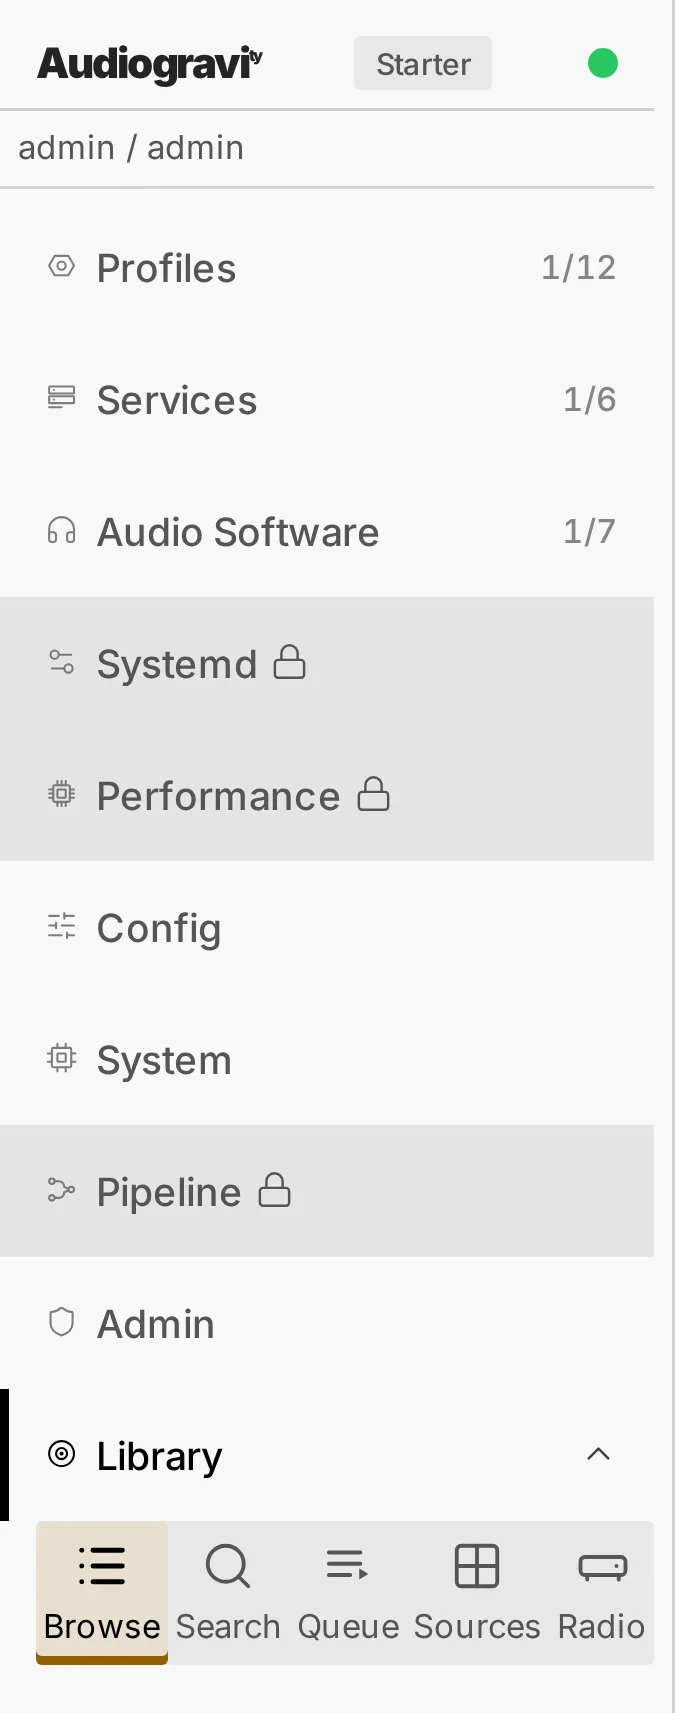
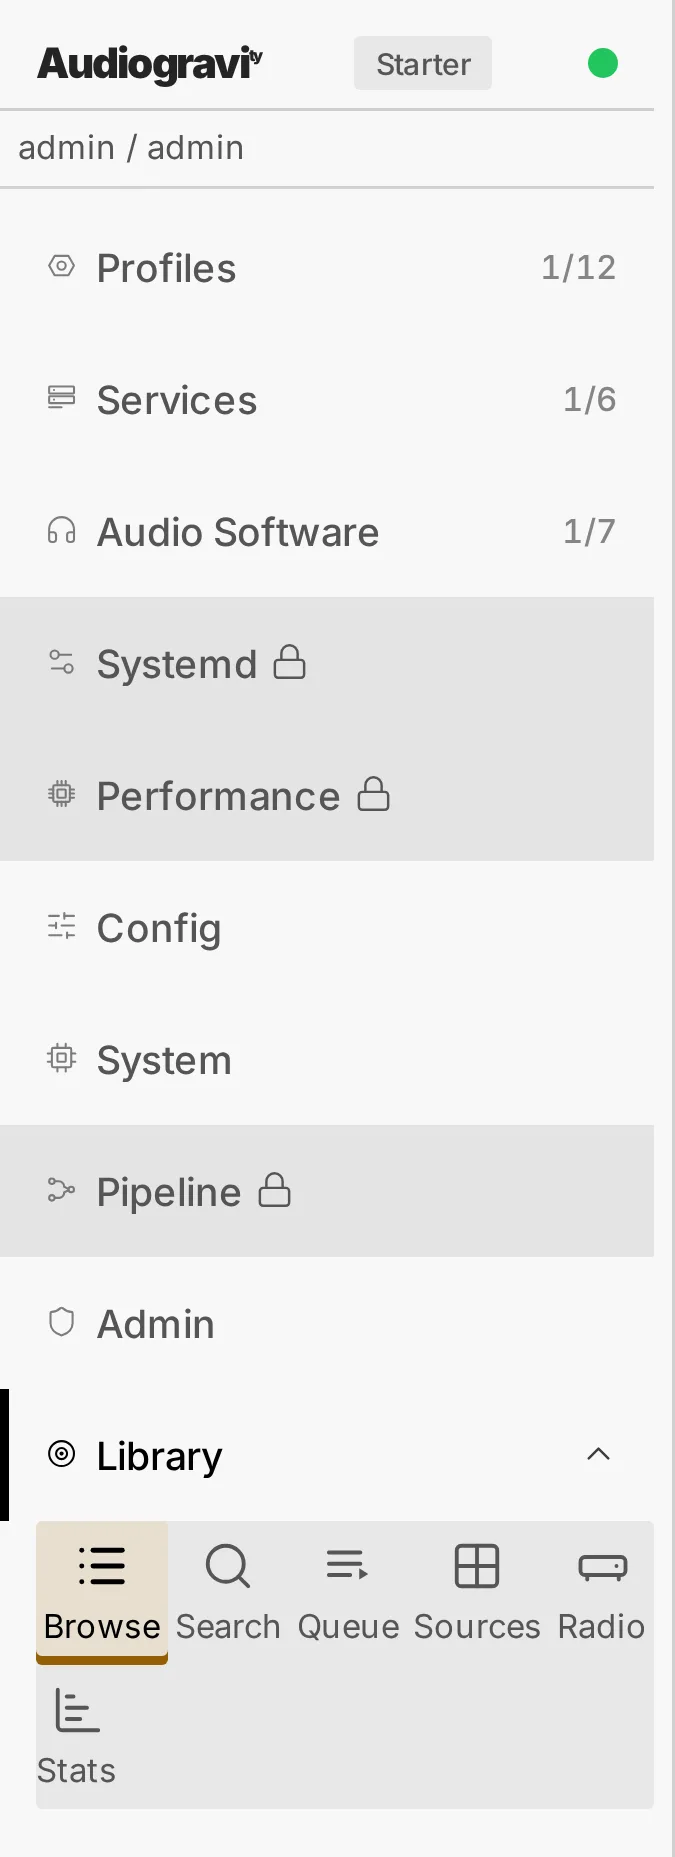
docs: describe when the box plays in Stats, with its figures
Library & streaming describes "When you listen" and shows the Stats view, taken with
an example history. First run's two figures of the tab menu and its list of Library's
views include Stats. The changelog and the release notes follow, and the measured
opening times of the history are brought up to date.

diff --git a/docs/manual/05-library-streaming.html b/docs/manual/05-library-streaming.html
@@ -74,8 +74,8 @@ browse. The <strong>Outputs</strong> button at the top of this view opens the li
 where you pick where the audio goes (see <a href="06-outputs-engines">6. Outputs &amp; engines</a>).</li>
 <li><strong>Radio</strong> — internet radio, with tabs of its own (see <a href="#internet-radio">Internet radio</a>
 below).</li>
-<li><strong>Stats</strong> — what the box has played: time listened, sources, sound quality, most
-played (see <a href="#listening-history">Listening history</a> below).</li>
+<li><strong>Stats</strong> — what the box has played: time listened and when, sources, sound quality,
+most played (see <a href="#listening-history">Listening history</a> below).</li>
 </ul>
 <img loading="lazy" src="images/ios-sources.webp" alt="The Sources view: the active source at the top, then the other sources, the AirPlay and UPnP inputs, and the discovered UPnP servers" width="360">
 <h2 id="your-local-library">Your local library</h2>
@@ -360,25 +360,31 @@ to start.</p>
 (<code>sudo systemctl restart ag-core-server</code>). Search and playback are unchanged by this;
 only the report stops.</p>
 <h2 id="listening-history">Listening history</h2>
-<p>The <strong>Stats</strong> tab shows what the box has played: how long you listened and on which
-days, through which sources and outputs, in what sound quality and which genres, your
-most played artists, albums and tracks, and your latest listens. The figures come with
-<strong>Pro</strong>; on Starter, the tab shows them behind a padlock.</p>
+<p>The <strong>Stats</strong> tab shows what the box has played: how long you listened, on which days
+and at what times of the week, through which sources and outputs, in what sound quality
+and which genres, your most played artists, albums and tracks, and your latest listens.
+The figures come with <strong>Pro</strong>; on Starter, the tab shows them behind a padlock.</p>
 <ol>
 <li>Open <strong>Library</strong>, then <strong>Stats</strong>.</li>
 <li>Pick a period at the top: <strong>7 days</strong>, <strong>30 days</strong>, <strong>12 months</strong> or <strong>All</strong>. Every
 figure below follows it.</li>
 <li><strong>Listening time</strong> has one bar per day — per month for 12 months and All. Tap a bar
 to read its time above the chart.</li>
+<li><strong>When you listen</strong> maps your week: a row per day, Monday to Sunday, and a square
+per hour. The darker a square, the more the box played at that hour, on average per
+week over the period. Tap a square to read its time above the grid.</li>
 <li><strong>By source</strong>, <strong>By output</strong>, <strong>Sound quality</strong> and <strong>Genres</strong> show where that time
 went. <strong>Unknown</strong> gathers what said nothing about itself: AirPlay and some streams
 carry no genre.</li>
 <li>Under <strong>Most played</strong>, switch between <strong>Artists</strong>, <strong>Albums</strong> and <strong>Tracks</strong>.
 <strong>Recently played</strong> lists your latest listens, whatever the period.</li>
 </ol>
+<img loading="lazy" src="images/ios-stats.webp" alt="The Stats view over 30 days: the time listened with its listens, albums and days with music, a bar per day, and the week's hours, Saturday 21:00 tapped" width="360">
 <p>What counts as a listen:</p>
 <ul>
 <li>a track counts once it has played for <strong>30 seconds</strong>; pauses are not counted;</li>
+<li>a listen counts in the hours it actually played: one started at 20:50 for half an
+hour fills 20:00 and 21:00 in <strong>When you listen</strong>, and a pause fills no square;</li>
 <li>a radio station counts as <strong>one listen</strong> for as long as you stayed on it, whatever
 songs it announced;</li>
 <li>a listen appears once it ends — when the next track starts, or shortly after you

diff --git a/docs/manual/03-first-run.html b/docs/manual/03-first-run.html
@@ -210,15 +210,16 @@ OS tuning, config files and monitoring (all covered in
 <a href="06-outputs-engines">6. Outputs &amp; engines</a>).</li>
 <li><strong>Admin</strong> — users and access, announcements, updates and the licence.</li>
 <li><strong>Library</strong> — browse, search, queue, sources and outputs: where you play
-music (the streaming services, the media servers and Roon come with Pro). In the sidebar, a tap on it unfolds a row of icons — <strong>Browse</strong>, <strong>Search</strong>,
-<strong>Queue</strong>, <strong>Sources</strong> or <strong>Radio</strong> — and a tap on one opens that view; a second tap
-on Library folds them. Coming from another tab, the view you were on opens as you
+music (the streaming services, the media servers and Roon come with Pro), and what the
+box has played. In the sidebar, a tap on it unfolds a row of icons — <strong>Browse</strong>,
+<strong>Search</strong>, <strong>Queue</strong>, <strong>Sources</strong>, <strong>Radio</strong> or <strong>Stats</strong> — and a tap on one opens that
+view; a second tap on Library folds them. Coming from another tab, the view you were on opens as you
 left it, an album or an artist still open. Across the top, a tap on Library opens the
 page, its views in a bar of their own.</li>
 <li><strong>Manual</strong> — this manual, readable inside the app; it stands apart from the tabs, at
 the far end of the bar or the foot of the sidebar.</li>
 </ul>
-<img loading="lazy" src="images/ios-tab-menu.webp" alt="The tab menu on a phone: the app's tabs, and Library unfolded into its views — Browse, Search, Queue, Sources and Radio — the one shown marked" width="216">
+<img loading="lazy" src="images/ios-tab-menu.webp" alt="The tab menu on a phone: the app's tabs, and Library unfolded into its views — Browse, Search, Queue, Sources, Radio and Stats — the one shown marked" width="216">
 <p>On a <strong>Starter</strong> licence, what Pro adds carries a padlock — the Pipeline, Systemd and
 Performance tabs, Library's Pro sources — and tapping one takes you to the licence panel, with
 the <em>License activation</em> window open. <strong>Config stays open</strong>: editing a service's configuration

diff --git a/CHANGELOG.md b/CHANGELOG.md
@@ -10,10 +10,12 @@ and this landing) are documented here. Format based on
 ## [Unreleased]
 
 ### Added
-- **[core+ui] Library → Stats: what the box played.** A sixth tab in Library shows the time listened over the last 7 or 30 days, 12 months or the whole history — one bar per day or month, tap one to read it —, where it came from and went to, its sound quality (DSD, Hi-Res, CD quality, lossy), its genres, the most played artists, albums and tracks, and the latest listens. A listen counts from 30 seconds actually played, pauses left out; a station is one listen for as long as you stay on it, its genre taken from its tags. The box records on every edition, from what its player already announces — the player reads nothing more for it, with or without a screen open (measured: 8 reads in two minutes of playback, none following a screen); the figures come with Pro. Roon and HQPlayer are not counted. A listen whose source vanishes from the player for a moment, or that plays across a restart of the core, stays one listen. The history is one file on the box, readable by the core's account only, never sent anywhere; ten years of listens open in 40 ms, 12 months in 270 ms at most, on the ARM box (200,000 synthetic listens, measured on a 1.8 GHz board). New routes: `GET /listening/summary` (Pro), `GET`/`PUT /listening/settings` and `DELETE /listening/history` (every edition, refused to a guest account).
+- **[core+ui] Library → Stats: what the box played.** A sixth tab in Library shows the time listened over the last 7 or 30 days, 12 months or the whole history — one bar per day or month, tap one to read it —, where it came from and went to, its sound quality (DSD, Hi-Res, CD quality, lossy), its genres, the most played artists, albums and tracks, and the latest listens. A listen counts from 30 seconds actually played, pauses left out; a station is one listen for as long as you stay on it, its genre taken from its tags. The box records on every edition, from what its player already announces — the player reads nothing more for it, with or without a screen open (measured: 8 reads in two minutes of playback, none following a screen); the figures come with Pro. Roon and HQPlayer are not counted. A listen whose source vanishes from the player for a moment, or that plays across a restart of the core, stays one listen. The history is one file on the box, readable by the core's account only, never sent anywhere; ten years of listens open in 75 ms, 12 months in 280 ms at most, on the ARM box (200,000 synthetic listens, measured on a 1.8 GHz board, the week's hours included). New routes: `GET /listening/summary` (Pro), `GET`/`PUT /listening/settings` and `DELETE /listening/history` (every edition, refused to a guest account).
+- **[core+ui] Library → Stats shows when the box plays.** *When you listen* maps the week: a row per day, Monday to Sunday, a square per hour, the darker the more the box played at that hour, on average per week over the period chosen; tap a square to read its time. A listen counts in the hours it actually played — one started at 20:50 for half an hour fills 20:00 and 21:00, a pause fills none — on the box's clock, including the nights the clocks change and in the countries half an hour off UTC. A track replayed after a pause is dated by its own start. It costs nothing while the music plays; opening the view takes 14 ms more on the x86 box and 35 ms more on the ARM box, at most, with ten years of listens. `GET /listening/summary` gains `week_hours`.
 - **[ui] Recording can be switched off and the history cleared on every edition.** At the bottom of Library → Stats, *Keep a history of what plays* and *Clear history…* (asked first) work on a Starter box too, where the figures stay behind the padlock.
 - **[ops] installer — the listening history is enabled on an existing box at its next update.**
 - **[manual] Library & streaming describes Stats**: the periods, the charts, what counts as a listen, switching the recording off and clearing it. The editions table, Troubleshooting (*A listen is missing from Stats*) and the backup list (`listening.db`) follow.
+- **[manual] A figure of Stats, and the tab menu with its Stats tab.** Library & streaming shows the Stats view over 30 days — the time listened, a bar per day, the week's hours — with an example history, set in the capturing browser only. First run's two figures of the tab menu, Pro and Starter, and its list of Library's views now include Stats.
 - **[site] The landing has a Pro card for the listening history**, beside the self-update card, now half width.
 
 ### Changed

diff --git a/docs/manual/05-library-streaming.md b/docs/manual/05-library-streaming.md
@@ -22,8 +22,8 @@ The Library tab holds several views, one per tab of its bar:
   where you pick where the audio goes (see [6. Outputs & engines](06-outputs-engines.md)).
 - **Radio** — internet radio, with tabs of its own (see [Internet radio](#internet-radio)
   below).
-- **Stats** — what the box has played: time listened, sources, sound quality, most
-  played (see [Listening history](#listening-history) below).
+- **Stats** — what the box has played: time listened and when, sources, sound quality,
+  most played (see [Listening history](#listening-history) below).
 
 <img src="images/ios-sources.webp" alt="The Sources view: the active source at the top, then the other sources, the AirPlay and UPnP inputs, and the discovered UPnP servers" width="360">
 
@@ -356,25 +356,32 @@ only the report stops.
 
 ## Listening history
 
-The **Stats** tab shows what the box has played: how long you listened and on which
-days, through which sources and outputs, in what sound quality and which genres, your
-most played artists, albums and tracks, and your latest listens. The figures come with
-**Pro**; on Starter, the tab shows them behind a padlock.
+The **Stats** tab shows what the box has played: how long you listened, on which days
+and at what times of the week, through which sources and outputs, in what sound quality
+and which genres, your most played artists, albums and tracks, and your latest listens.
+The figures come with **Pro**; on Starter, the tab shows them behind a padlock.
 
 1. Open **Library**, then **Stats**.
 2. Pick a period at the top: **7 days**, **30 days**, **12 months** or **All**. Every
    figure below follows it.
 3. **Listening time** has one bar per day — per month for 12 months and All. Tap a bar
    to read its time above the chart.
-4. **By source**, **By output**, **Sound quality** and **Genres** show where that time
+4. **When you listen** maps your week: a row per day, Monday to Sunday, and a square
+   per hour. The darker a square, the more the box played at that hour, on average per
+   week over the period. Tap a square to read its time above the grid.
+5. **By source**, **By output**, **Sound quality** and **Genres** show where that time
    went. **Unknown** gathers what said nothing about itself: AirPlay and some streams
    carry no genre.
-5. Under **Most played**, switch between **Artists**, **Albums** and **Tracks**.
+6. Under **Most played**, switch between **Artists**, **Albums** and **Tracks**.
    **Recently played** lists your latest listens, whatever the period.
+
+<img src="images/ios-stats.webp" alt="The Stats view over 30 days: the time listened with its listens, albums and days with music, a bar per day, and the week's hours, Saturday 21:00 tapped" width="360">
 
 What counts as a listen:
 
 - a track counts once it has played for **30 seconds**; pauses are not counted;
+- a listen counts in the hours it actually played: one started at 20:50 for half an
+  hour fills 20:00 and 21:00 in **When you listen**, and a pause fills no square;
 - a radio station counts as **one listen** for as long as you stayed on it, whatever
   songs it announced;
 - a listen appears once it ends — when the next track starts, or shortly after you

diff --git a/docs/manual/03-first-run.md b/docs/manual/03-first-run.md
@@ -185,15 +185,16 @@ is the app's map:
   [6. Outputs & engines](06-outputs-engines.md)).
 - **Admin** — users and access, announcements, updates and the licence.
 - **Library** — browse, search, queue, sources and outputs: where you play
-  music (the streaming services, the media servers and Roon come with Pro). In the sidebar, a tap on it unfolds a row of icons — **Browse**, **Search**,
-  **Queue**, **Sources** or **Radio** — and a tap on one opens that view; a second tap
-  on Library folds them. Coming from another tab, the view you were on opens as you
+  music (the streaming services, the media servers and Roon come with Pro), and what the
+  box has played. In the sidebar, a tap on it unfolds a row of icons — **Browse**,
+  **Search**, **Queue**, **Sources**, **Radio** or **Stats** — and a tap on one opens that
+  view; a second tap on Library folds them. Coming from another tab, the view you were on opens as you
   left it, an album or an artist still open. Across the top, a tap on Library opens the
   page, its views in a bar of their own.
 - **Manual** — this manual, readable inside the app; it stands apart from the tabs, at
   the far end of the bar or the foot of the sidebar.
 
-<img src="images/ios-tab-menu.webp" alt="The tab menu on a phone: the app's tabs, and Library unfolded into its views — Browse, Search, Queue, Sources and Radio — the one shown marked" width="216">
+<img src="images/ios-tab-menu.webp" alt="The tab menu on a phone: the app's tabs, and Library unfolded into its views — Browse, Search, Queue, Sources, Radio and Stats — the one shown marked" width="216">
 
 On a **Starter** licence, what Pro adds carries a padlock — the Pipeline, Systemd and
 Performance tabs, Library's Pro sources — and tapping one takes you to the licence panel, with

diff --git a/RELEASE_NOTES.md b/RELEASE_NOTES.md
@@ -17,6 +17,11 @@ quality or lossy; the genres you came back to; your most played artists, albums 
 your latest listens. A track counts once it has played for 30 seconds, and a radio station is one
 listen for as long as you stay on it. Roon and HQPlayer are not counted.
 
+**When you listen.** Stats also maps your week, Monday to Sunday and hour by hour: the darker a
+square, the more the box played at that hour, on average per week over the period you picked —
+your evenings, your weekend afternoons, the late Friday nights. A track counts in the hours it
+really played: pauses fill no square.
+
 The figures come with Pro. The box keeps the history on every edition, so on every edition you
 can switch it off or clear it, from the bottom of the same tab; while it is off, the top of the tab
 says so. It stays on the box: nothing of it is sent anywhere.
